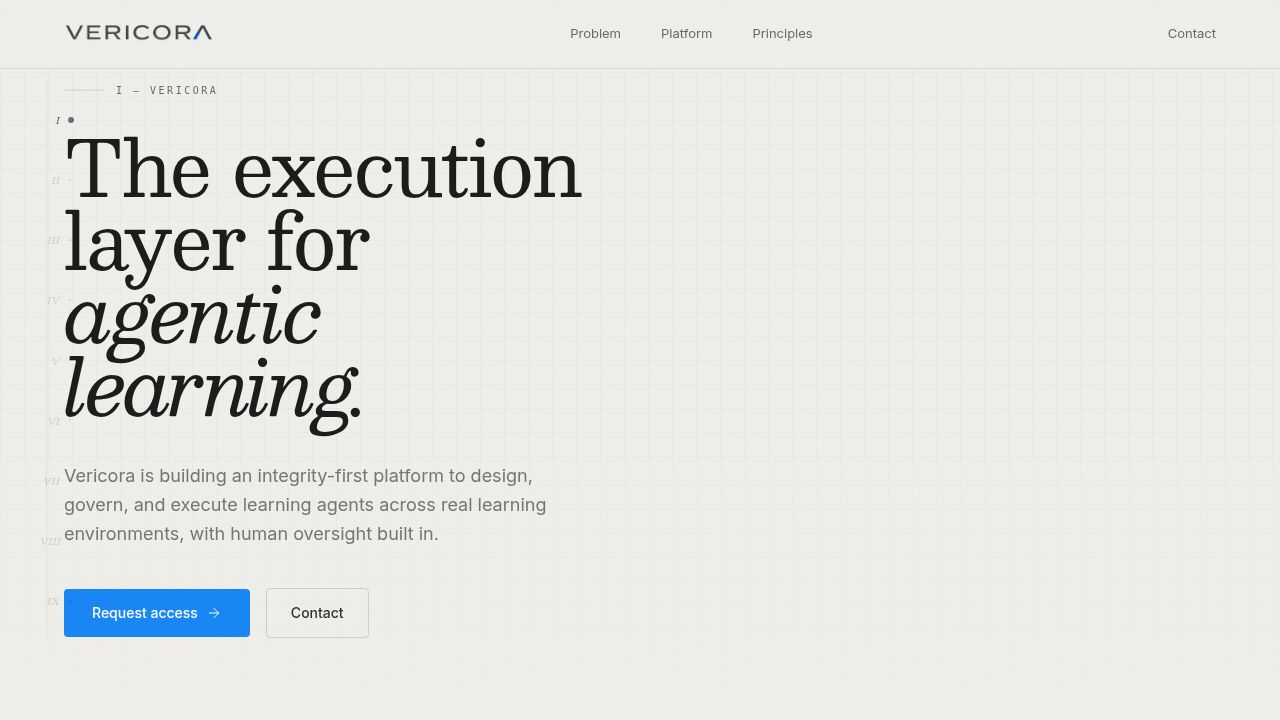
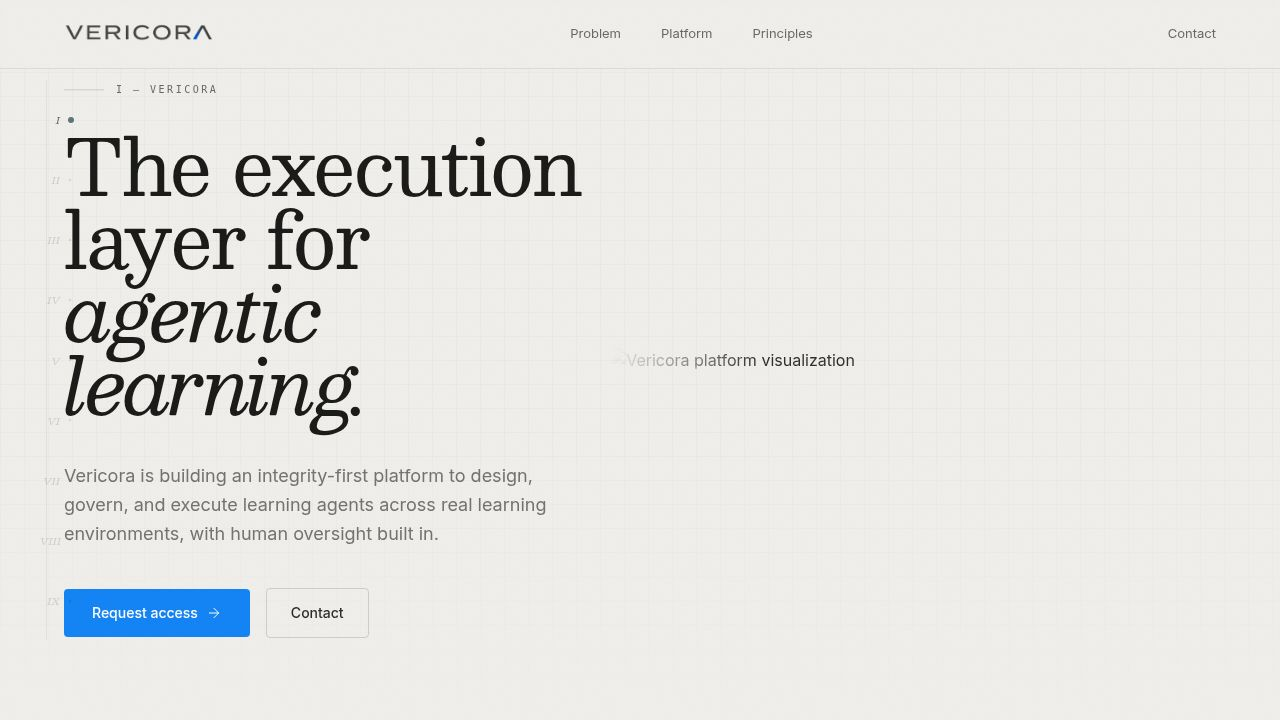
Restore the original hero image on the homepage
Revert the hero section in `pages/home.tsx` from a video element to an image element, using `/assets/hero-visual.png` as the source.

Replit-Commit-Author: Agent
Replit-Commit-Session-Id: c03ffb42-468e-4dbb-b412-eeeee36b69bb
Replit-Commit-Checkpoint-Type: full_checkpoint
Replit-Commit-Event-Id: 88575a8a-b656-4f10-a0a8-6779e4e95597
Replit-Commit-Screenshot-Url: https://storage.googleapis.com/screenshot-production-us-central1/531f08ef-b1e5-4ea9-80ad-4c07f1a960fe/c03ffb42-468e-4dbb-b412-eeeee36b69bb/wqyaOZK
Replit-Helium-Checkpoint-Created: true

diff --git a/client/src/pages/home.tsx b/client/src/pages/home.tsx
@@ -465,7 +465,7 @@ export default function Home() {
               </motion.div>
             </div>
 
-            {/* Right: Hero Video - positioned to extend beyond viewport */}
+            {/* Right: Hero Image - positioned to extend beyond viewport */}
             <motion.div 
               initial={{ opacity: 0, x: 40 }}
               animate={{ opacity: 1, x: 0 }}
@@ -480,15 +480,11 @@ export default function Home() {
                 WebkitMaskComposite: 'source-in'
               }}
             >
-              <video 
-                autoPlay 
-                loop 
-                muted 
-                playsInline
+              <img 
+                src="/assets/hero-visual.png" 
+                alt="Vericora platform visualization"
                 className="w-full object-contain"
-              >
-                <source src="/assets/hero-video.mp4" type="video/mp4" />
-              </video>
+              />
             </motion.div>
           </div>
         </div>
